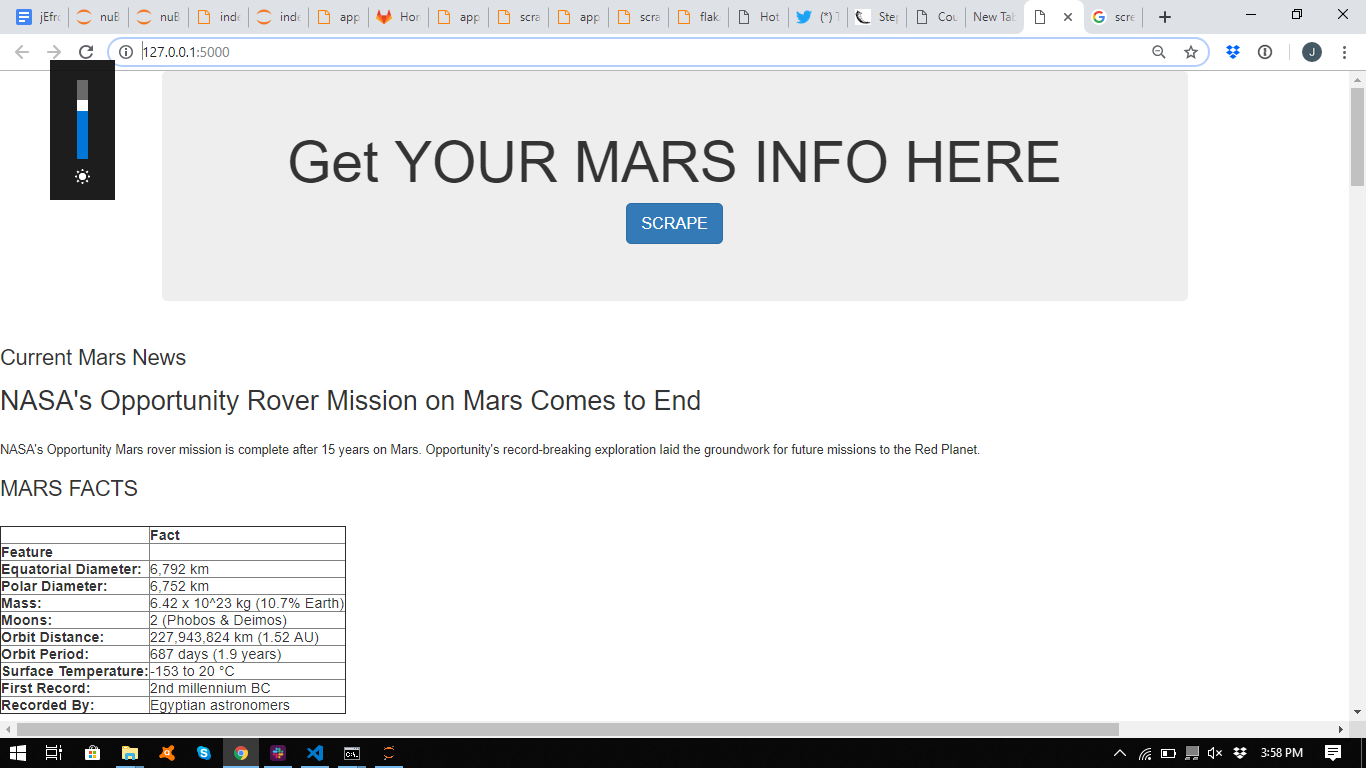
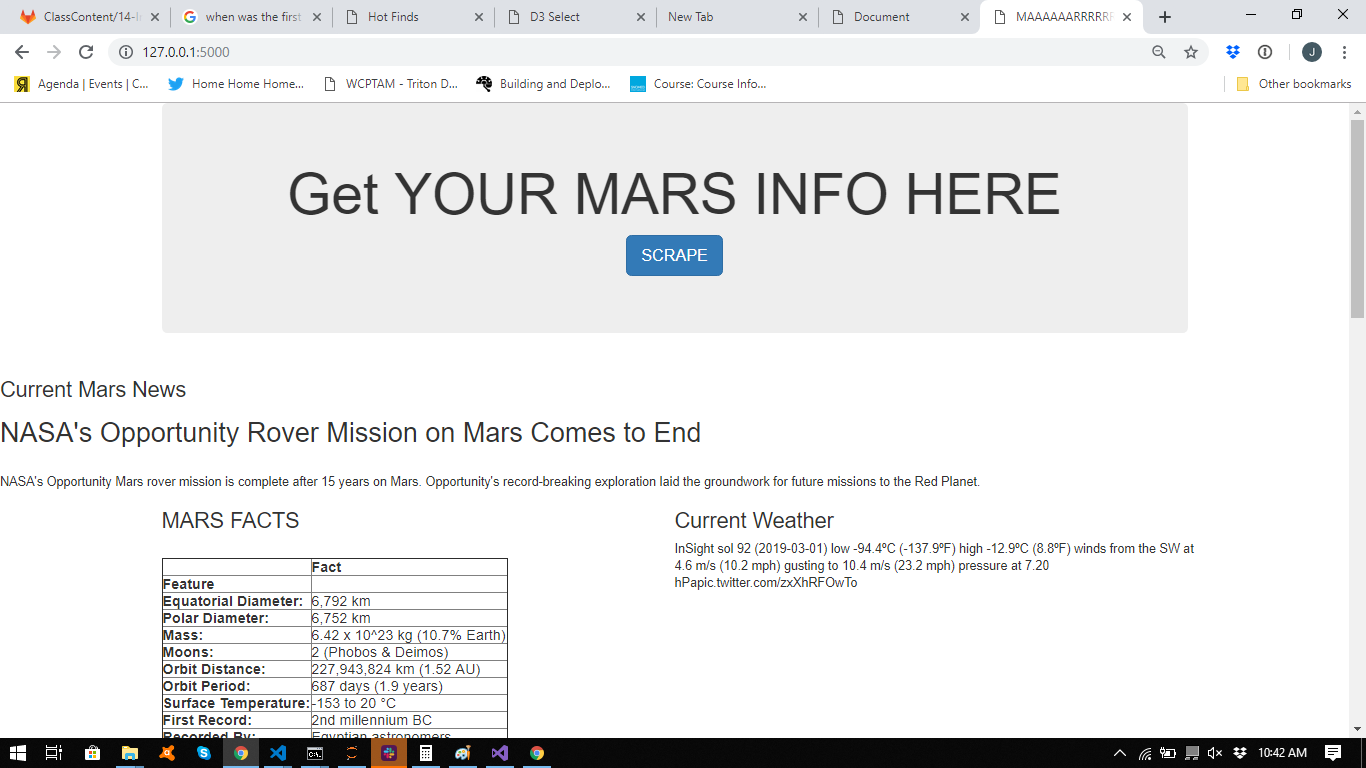
forgot the weather

diff --git a/templates/index.html b/templates/index.html
@@ -4,7 +4,7 @@
   <meta charset="UTF-8">
   <meta name="viewport" content="width=device-width, initial-scale=1.0">
   <meta http-equiv="X-UA-Compatible" content="ie=edge">
-  <title>Hot Finds</title>
+  <title>MAAAAAARRRRRRRRRRRSSS</title>
   <link rel="stylesheet" href="https://maxcdn.bootstrapcdn.com/bootstrap/3.3.7/css/bootstrap.min.css">
 </head>
 
@@ -22,12 +22,21 @@
   <h2>{{data.articles.0.headline}}</h2>
   <br>
   {{data.articles.0.description}}
-
-  <h3> MARS FACTS</h3>
-  <br>
-  <div>
-    {{data.facts |safe}}
-  </div>
+  <div class="container">
+    <div class="row">
+      <div class="col-md-6 col-sm-12">
+        <h3> MARS FACTS</h3>
+        <br>
+      <div>
+          {{data.facts |safe}}
+      </div>
+      </div>
+      <div class="col-md-6 col-sm-12"></div>
+      <h3> Current Weather</h3>
+      <div> {{data.weather}}</div>
+      </div>
+      </div>
+    
  
   <br>
   <h3>Featured Picture</h3>
